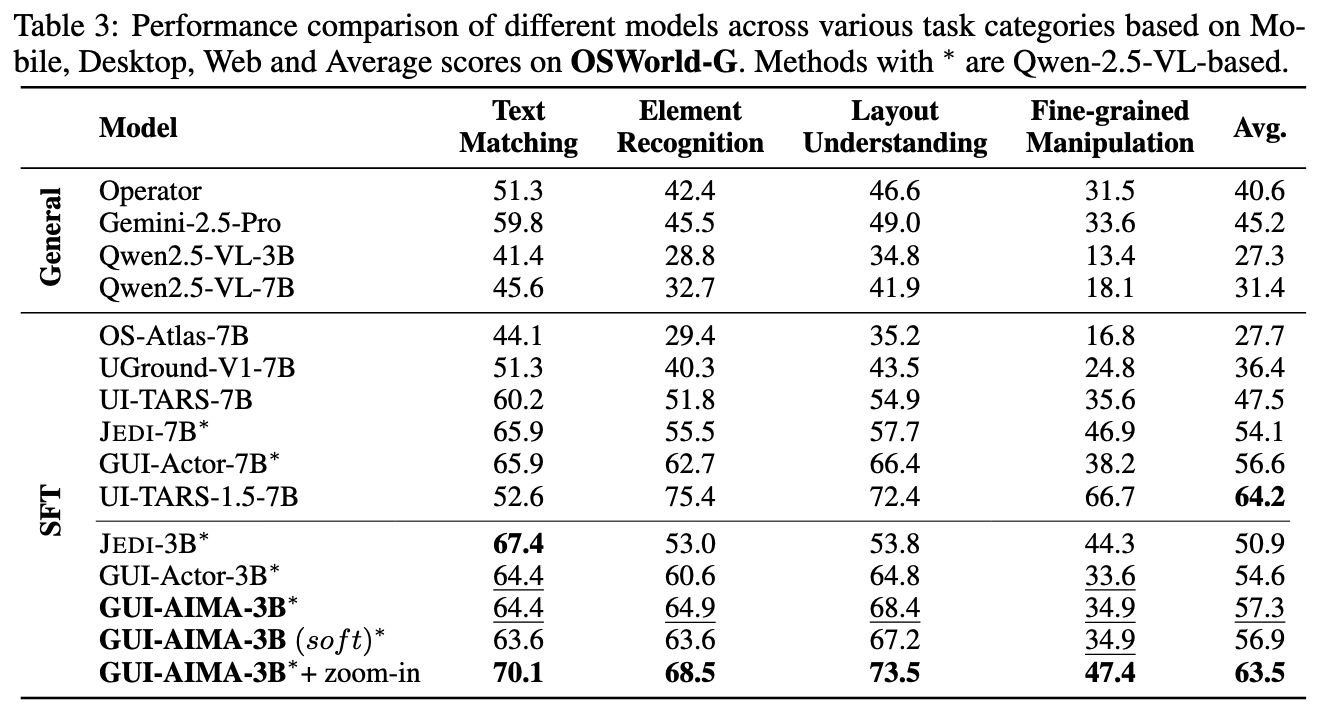
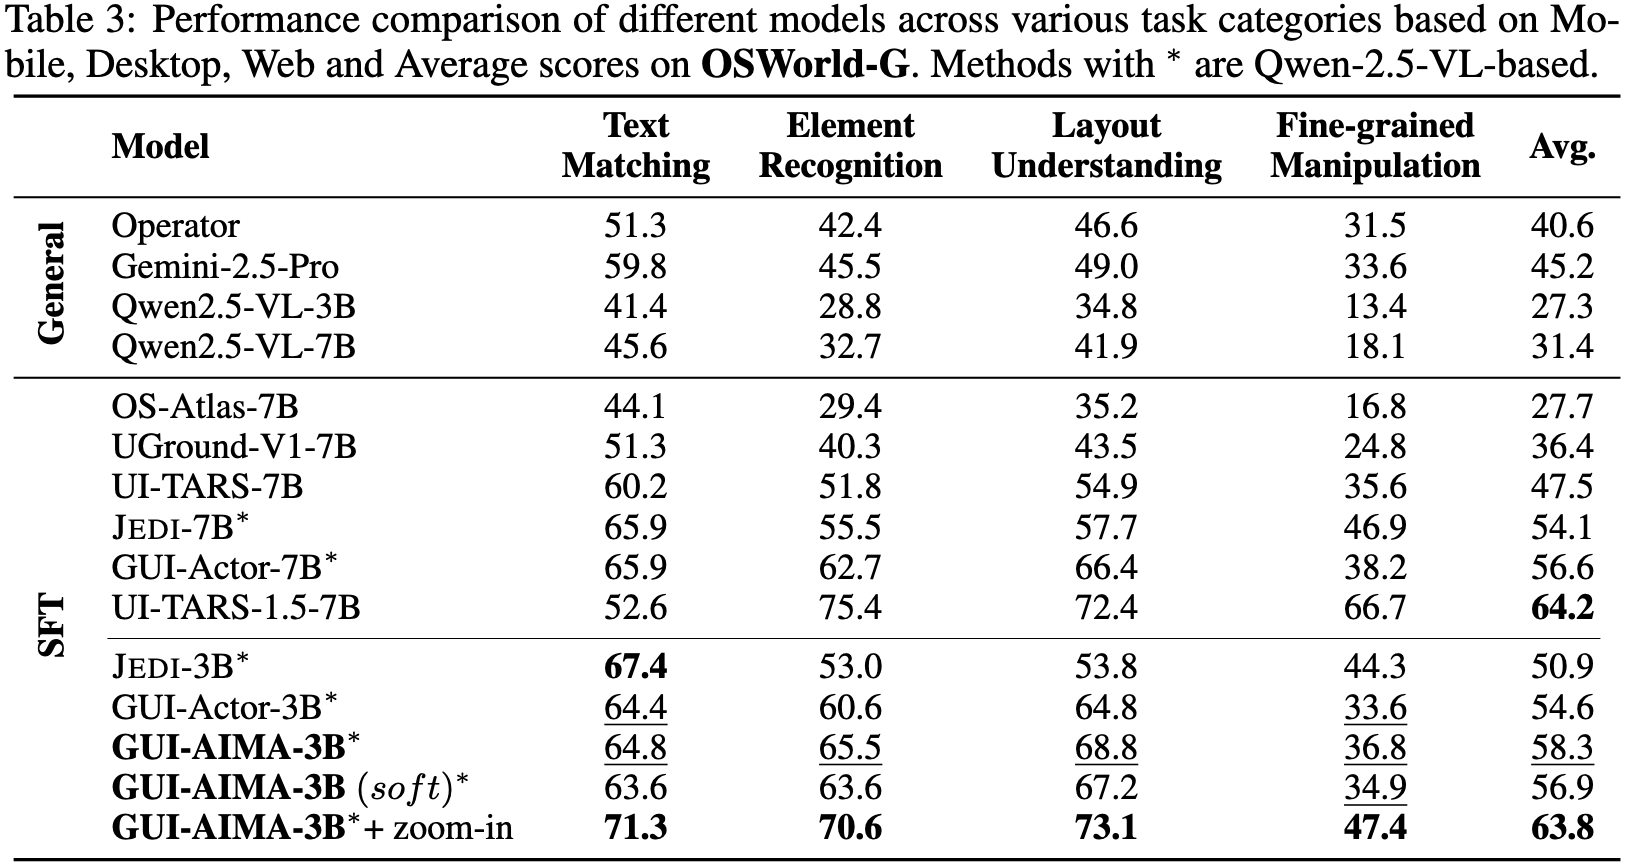
update

Changed region(s): [[0.0, 0.0, 1.0, 1.0]]

diff --git a/eval/osworld-g_two_stage.py b/eval/osworld-g_two_stage.py
@@ -81,7 +81,7 @@ def process_image_for_inference(
     start_x, start_y, end_x, end_y = crop_coords
     cropped_image = image.crop((start_x, start_y, end_x, end_y))
     cropped_img_width_ori, cropped_img_height_ori = cropped_image.size
-    cropped_image = cropped_image.resize((cropped_img_width_ori*2, cropped_img_height_ori*2), Image.BICUBIC)
+    cropped_image = cropped_image.resize((cropped_img_width_ori*4, cropped_img_height_ori*4), Image.BICUBIC)
 
     # Prepare the conversation for inference
     conversation = [
@@ -117,8 +117,8 @@ def process_image_for_inference(
     for (norm_px_predicted_cropped, norm_py_predicted_cropped) in topk_points:
         px_in_cropped_image = int(norm_px_predicted_cropped * cropped_img_width)
         py_in_cropped_image = int(norm_py_predicted_cropped * cropped_img_height)
-        px_in_original_image = px_in_cropped_image/2 +start_x
-        py_in_original_image = py_in_cropped_image/2 +start_y
+        px_in_original_image = px_in_cropped_image/4 +start_x
+        py_in_original_image = py_in_cropped_image/4 +start_y
         point_tuple = (px_in_original_image/img_width, py_in_original_image/img_height)
         point_tuple_list.append(point_tuple)
 

diff --git a/README.md b/README.md
@@ -20,8 +20,10 @@
 
 - [2025/11/05] 🔥 **GUI-AIMA** now **supports FlashAttention-2**, faster and significantly more memory-efficient than previous Eager attention implementations. While "output_attentions = Ture" is not supported by FlashAttention, we resolve it by mixing FlashAttention and Eager attention implementations. GUI-AIMA now can achieve **49.3%** (1-step), **59.6%** (2-step) on ScreenSpot-pro, and **57.3%** (1-step), **63.5%** (2-step) on OSWorld-G.
 
+- [2025/11/10] 🔥 Update **smz8599/GUI-AIMA-3B**. We can now achieve **58.3%** (1-step), **63.8%** (2-step) on OSWorld-G and **91.5%** on ScreenSpot-v2.
+
 ## Todos
-- [ ] Release native FlashAttention trained **stronger** GUI-AIMA with larger max_pixels and potential larger size — *in progress* 
+- [x] Release native FlashAttention trained **stronger** GUI-AIMA with larger max_pixels and potential larger size — *Nov 10* 
 
 ## Architecture
 </div>
